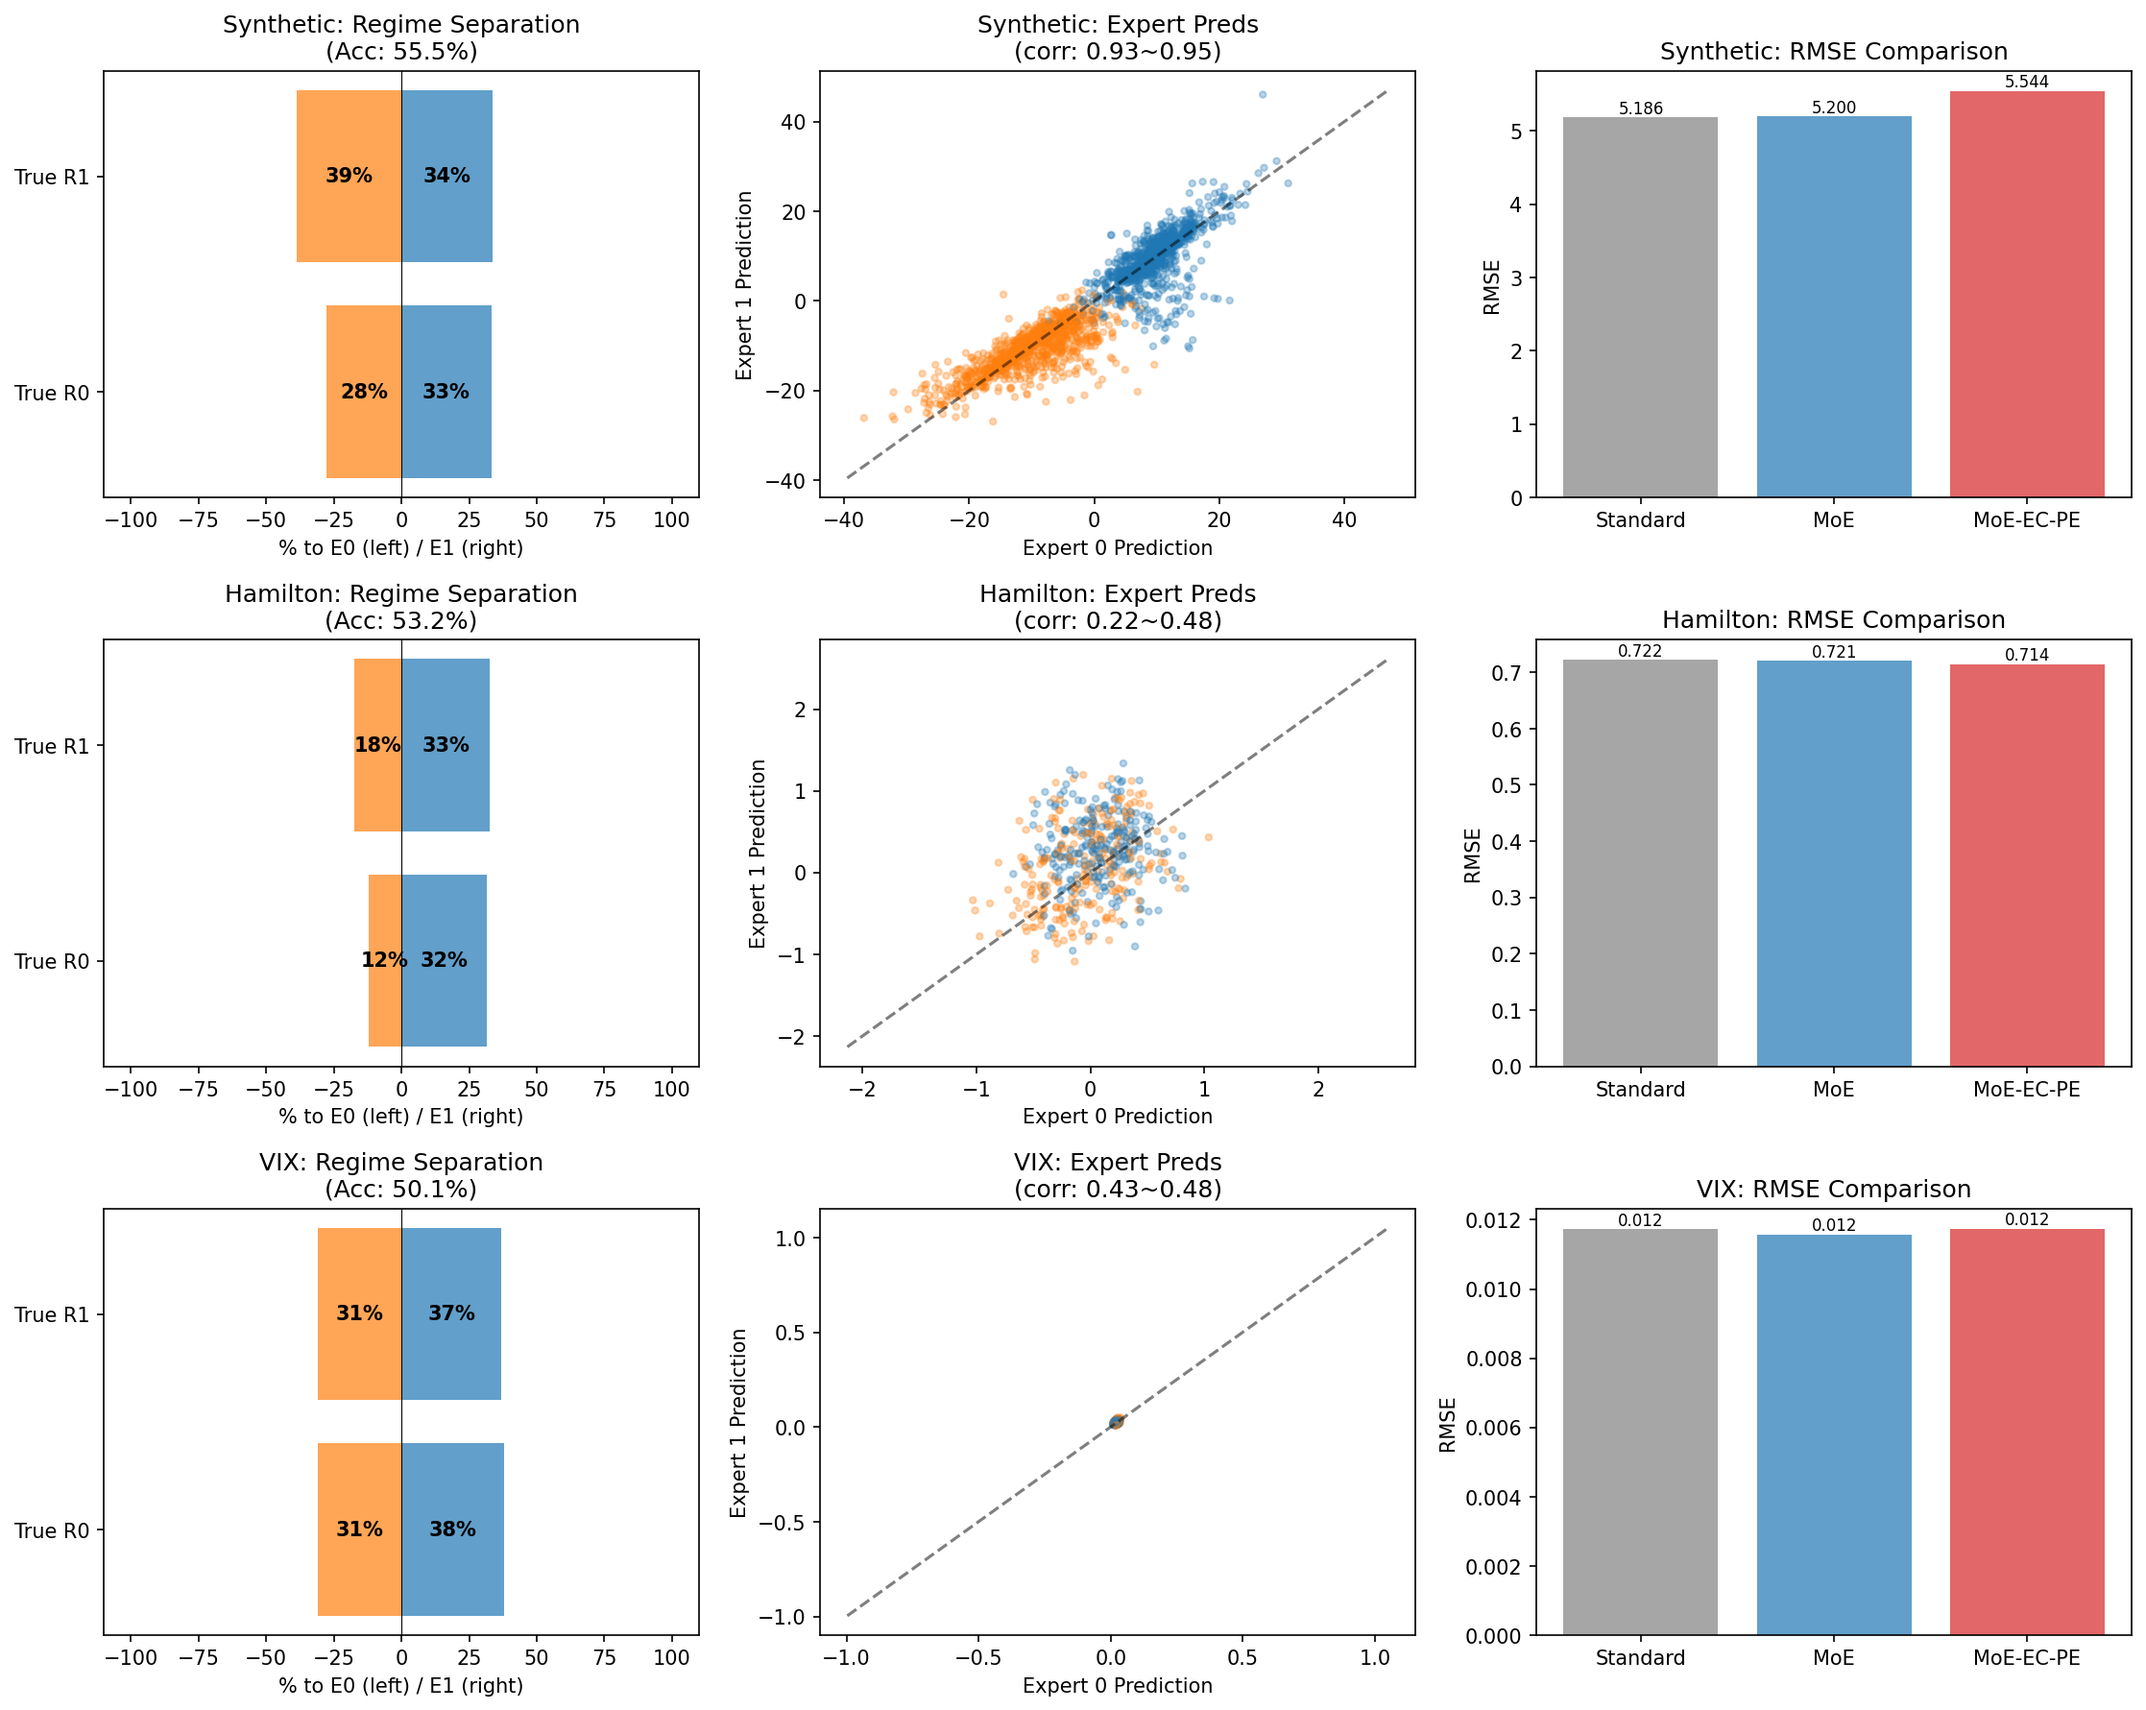
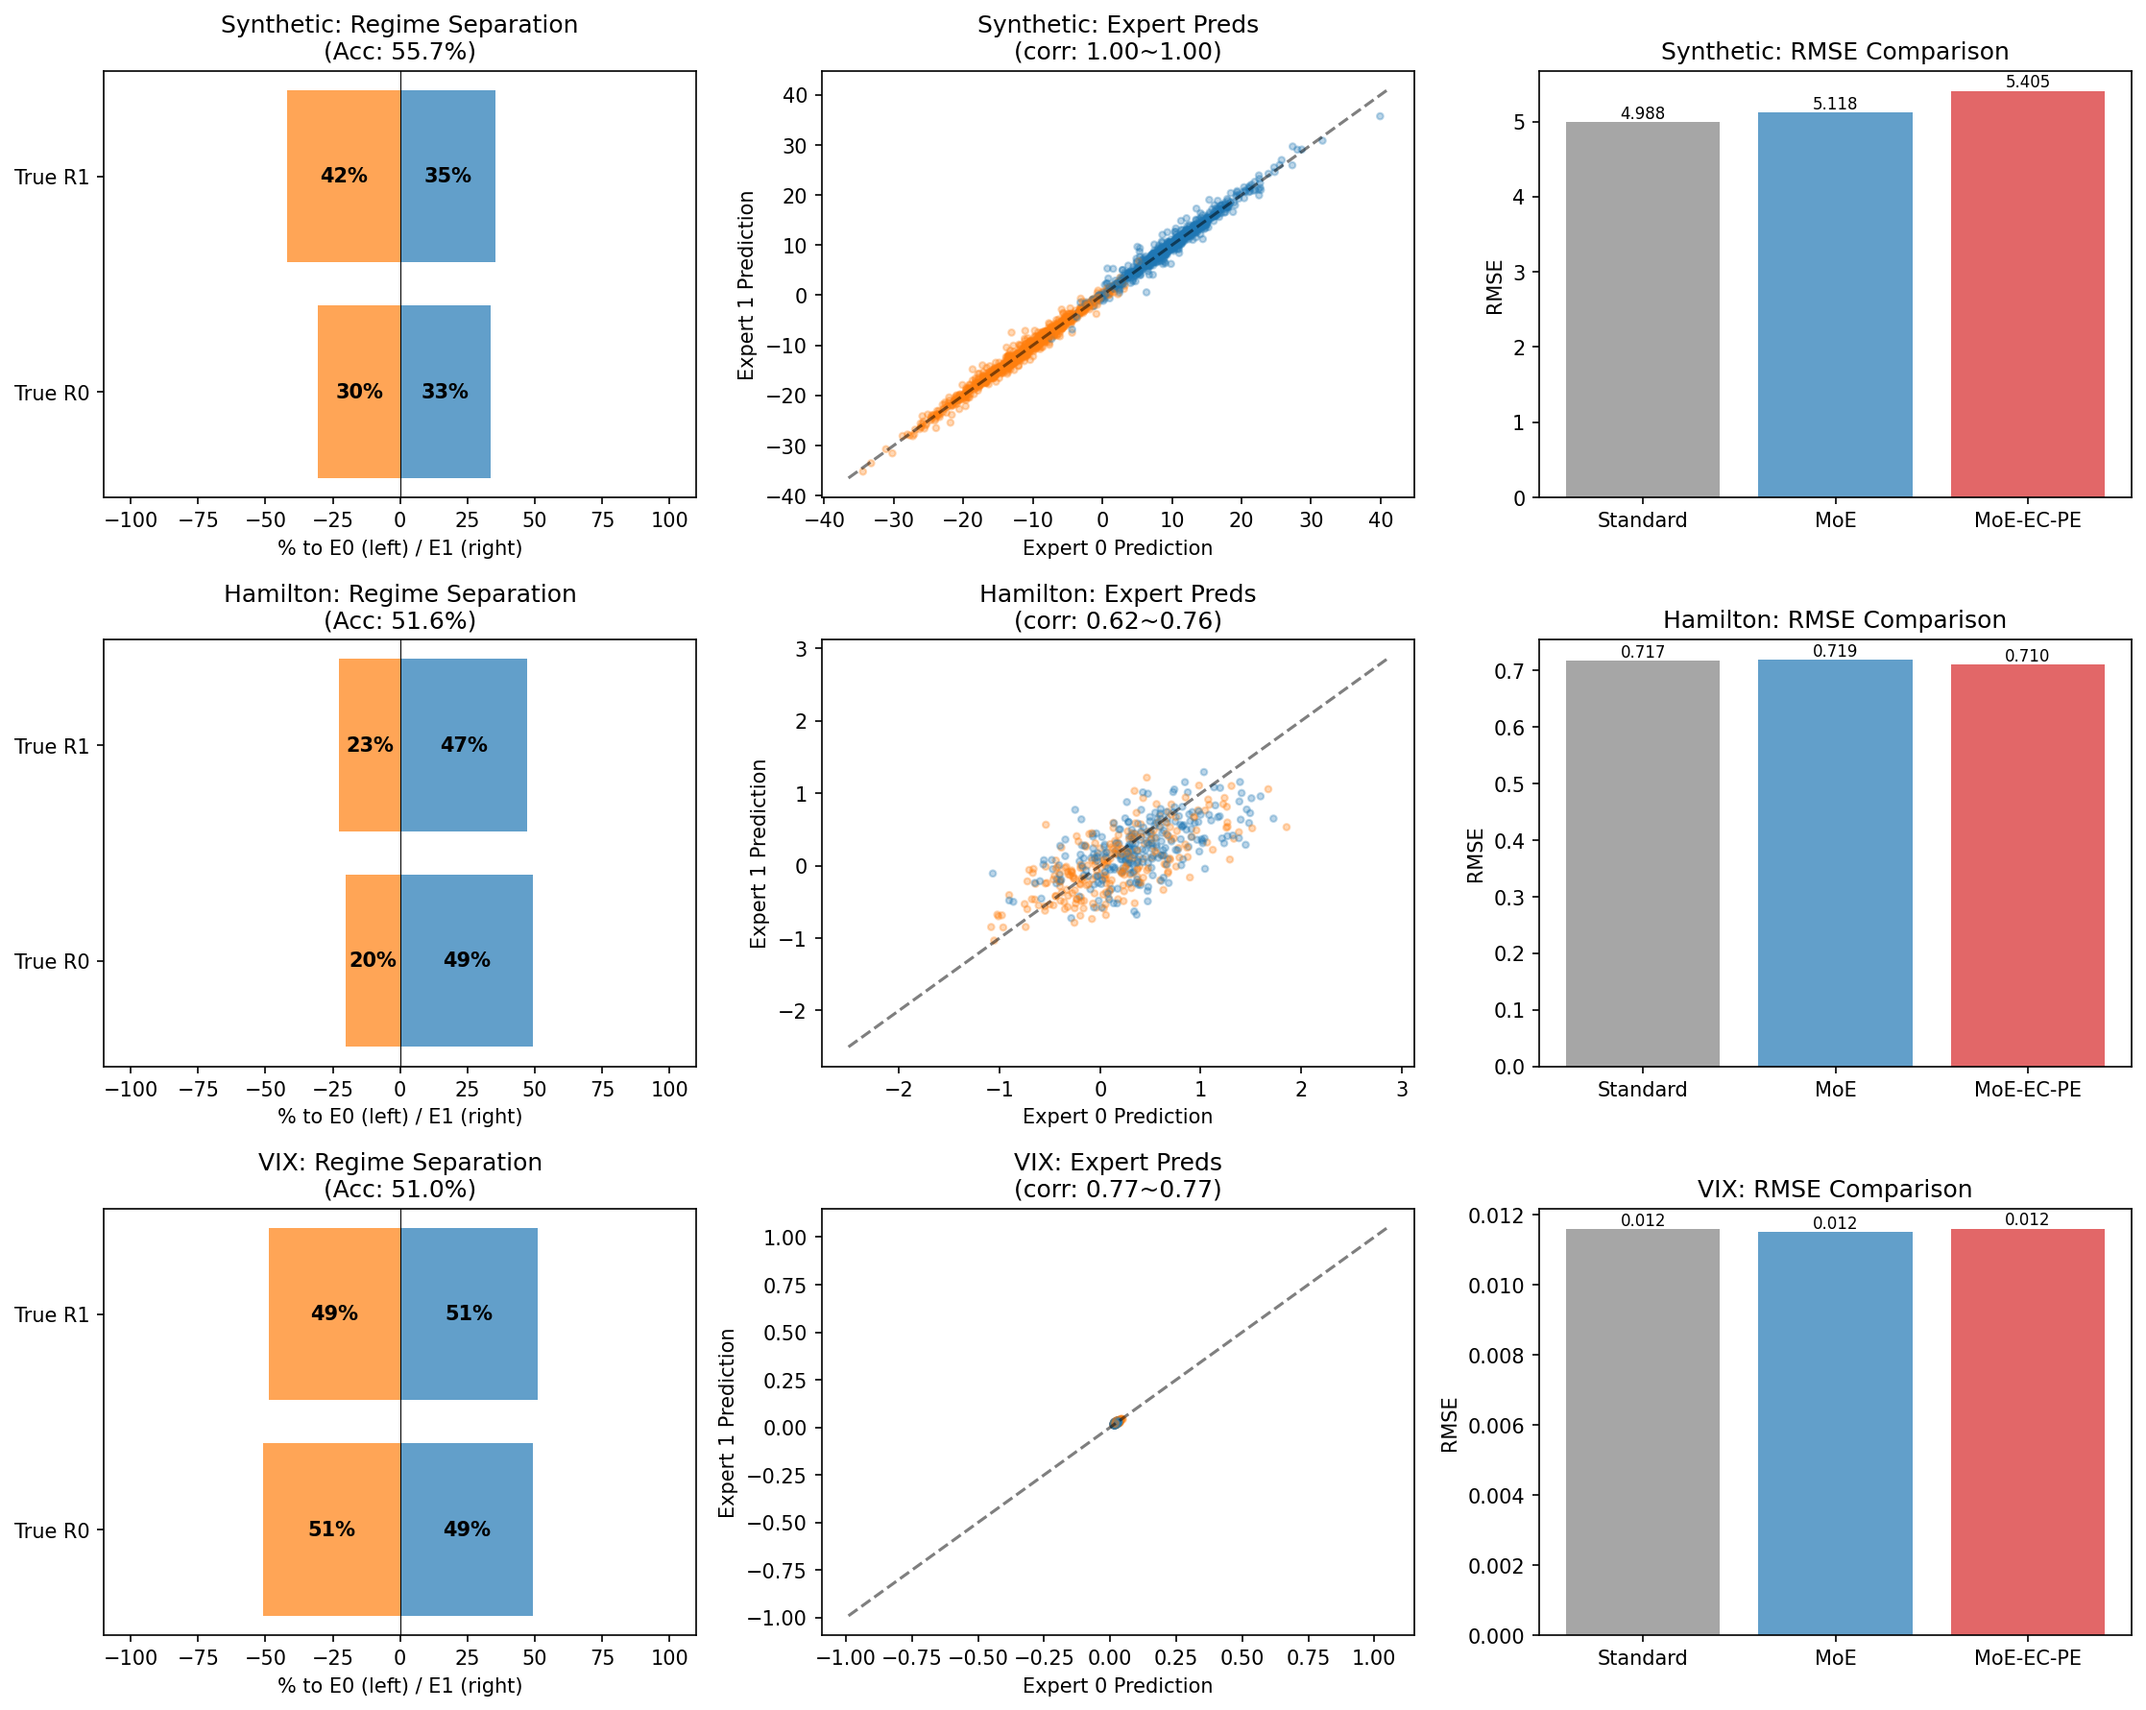
feat: Add smoothing search to MoE objective
- Search smoothing mode (none, ema) instead of fixed none
- Add smoothing_lambda parameter when ema is selected
- Update benchmark results with 200 trials

diff --git a/examples/benchmark.py b/examples/benchmark.py
@@ -486,8 +486,8 @@ def create_objective_moe(
         collapse_stopper_kwargs = {}
 
     def objective(trial):
-        # smoothing=none fixed to prevent expert collapse
-        smoothing = "none"
+        # Search smoothing mode (none or ema)
+        smoothing = trial.suggest_categorical("mixture_r_smoothing", ["none", "ema"])
         num_experts = trial.suggest_int("mixture_num_experts", 2, 4)
 
         params = {
@@ -516,6 +516,10 @@ def create_objective_moe(
             "mixture_gate_learning_rate": trial.suggest_float("mixture_gate_learning_rate", 0.01, 0.3, log=True),
         }
 
+        # Add smoothing lambda when using ema
+        if smoothing == "ema":
+            params["mixture_smoothing_lambda"] = trial.suggest_float("mixture_smoothing_lambda", 0.5, 0.99)
+
         if per_expert:
             max_depths = [trial.suggest_int(f"max_depth_{k}", 3, 12) for k in range(num_experts)]
             num_leaves = [trial.suggest_int(f"num_leaves_{k}", 8, 128) for k in range(num_experts)]
@@ -528,8 +532,6 @@ def create_objective_moe(
             params["num_leaves"] = trial.suggest_int("num_leaves", 8, 128)
             params["max_depth"] = trial.suggest_int("max_depth", 3, 12)
             params["min_data_in_leaf"] = trial.suggest_int("min_data_in_leaf", 5, 100)
-
-        # smoothing_lambda not needed when smoothing=none
 
         return evaluate_cv(
             X, y, params, config,
